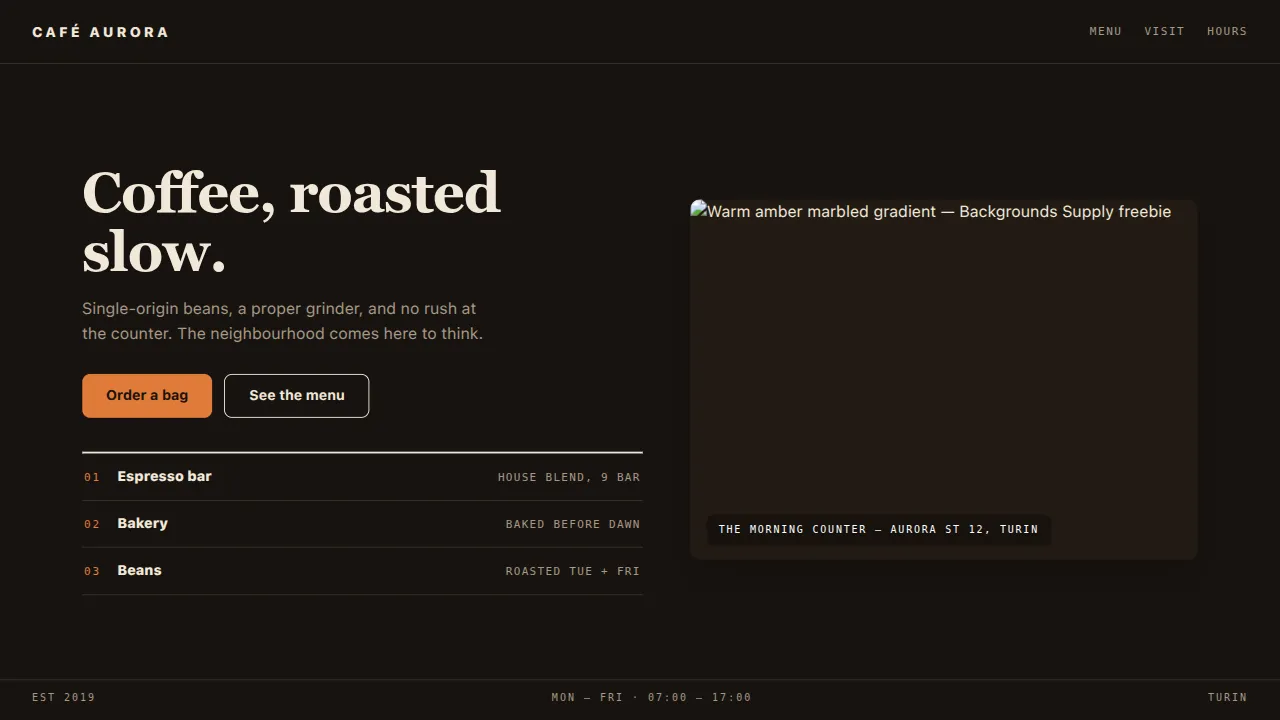
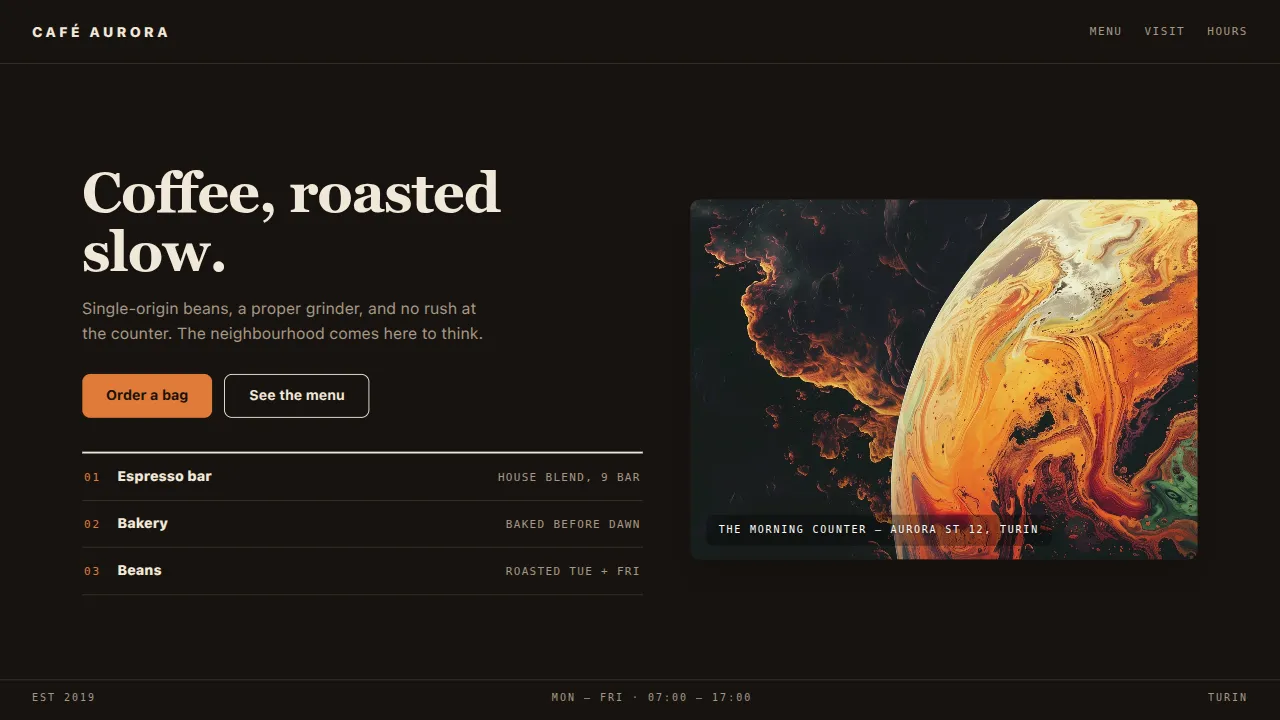
site: critique fixes — kill caps-grid tell, dominate central visual, drop duplicate index
Ran the skill's critique flow (two independent assessments + visual leg). Assessment B confirmed the broken example-asset paths (site/examples/*.html referenced ../assets -> nonexistent site/assets; all six 16:9 renders shipped with broken hero images). Fixed by moving source webps to site/examples/assets/ and re-rendering with images verified loaded. Assessment A verdict: not slop overall, but the 13-cell all-caps icon grid was the detector's own tell in the proof component. Fixes: mixed-case labels in the reference's hand-set pattern (Catch every TELL / De-slop ANY PAGE...), central landing window now spans 2 columns (550px, dominant), horizontal doctrine index strip removed (it duplicated every grid target), duplicate in-section Start now removed in favor of the reference's full-width START NOW band, showcase trimmed to 5 sites (the-landing was shown twice), partner sub rewritten to stop repeating the cine hero copy, 8-scale gaps (16px), figcaption 'Café Aurora'. Detector 0 errors/0 warnings; desktop 8.5-9/10, mobile clean, no overflow.

Changed region(s): [[0.5312, 0.275, 0.9375, 0.7944]]

diff --git a/site/src/index.html b/site/src/index.html
@@ -56,59 +56,46 @@
         <span class="sec-num">00 / THE PARTNER</span>
         <p class="p-tagline"><span class="tg-serif">A freehand design partner</span> <span class="tg-black">for agents,</span> <span class="tg-serif">by designers.</span></p>
         <h2 class="p-head">Keep the tell <span class="p-head-ser">out.</span></h2>
-        <p class="p-sub">The detector, the doctrine, the checklist — one skill. Six real sites below, built with it. No model, no API key.</p>
-        <div class="p-actions"><a class="cta" href="#install">Start now</a><a class="ghost" href="wiki.html">See the wiki</a></div>
+        <p class="p-sub">Six real sites, one skill. Every layout below is built with the doctrine it links to, and checked by the detector before it shipped.</p>
+        <div class="p-actions"><a class="ghost" href="wiki.html">See the wiki</a></div>
       </div>
       <img class="mag mag-a" src="assets/mag-editions.webp" alt="Design Skill Editions, the detector issue" width="270" height="360">
       <img class="mag mag-b" src="assets/mag-templates.webp" alt="Design Skill Editions, the checklist issue" width="270" height="360">
     </div>
-    <ol class="p-index">
-      <li><a href="detector.html"><span>01</span>Detector</a></li>
-      <li><a href="doctrine/colorize.html"><span>02</span>Color</a></li>
-      <li><a href="doctrine/typeset.html"><span>03</span>Type</a></li>
-      <li><a href="doctrine/layout.html"><span>04</span>Layout</a></li>
-      <li><a href="doctrine/animate.html"><span>05</span>Motion</a></li>
-      <li><a href="doctrine/access.html"><span>06</span>Accessibility</a></li>
-      <li><a href="checklists.html"><span>07</span>Checklists</a></li>
-    </ol>
     <div class="p-grid">
       <div class="p-row p-row1">
-        <a class="p-cell" href="doctrine/typeset.html"><svg class="ic" viewBox="0 0 24 24" fill="none" stroke="currentColor" stroke-width="2" stroke-linecap="round" stroke-linejoin="round" aria-hidden="true"><path d="M4 7V4h16v3"/><path d="M9 20h6"/><path d="M12 4v16"/></svg><span>Set the type scale</span></a>
-        <a class="p-cell" href="doctrine/colorize.html"><svg class="ic" viewBox="0 0 24 24" fill="none" stroke="currentColor" stroke-width="2" stroke-linecap="round" stroke-linejoin="round" aria-hidden="true"><path d="M12 3v3"/><path d="M12 18v3"/><path d="M3 12h3"/><path d="M18 12h3"/><path d="m5.6 5.6 2.1 2.1"/><path d="m16.3 16.3 2.1 2.1"/><path d="m18.4 5.6-2.1 2.1"/><path d="m7.7 16.3-2.1 2.1"/></svg><span>Craft the palette</span></a>
-        <a class="p-cell" href="doctrine/layout.html"><svg class="ic" viewBox="0 0 24 24" fill="none" stroke="currentColor" stroke-width="2" stroke-linecap="round" stroke-linejoin="round" aria-hidden="true"><rect x="3" y="3" width="18" height="18" rx="2"/><path d="M3 9h18"/><path d="M9 21V9"/></svg><span>Build the grid</span></a>
-        <a class="p-cell" href="doctrine/animate.html"><svg class="ic" viewBox="0 0 24 24" fill="none" stroke="currentColor" stroke-width="2" stroke-linecap="round" stroke-linejoin="round" aria-hidden="true"><path d="M3 12a9 9 0 0 1 9-9 9.75 9.75 0 0 1 6.74 2.74L21 8"/><path d="M21 3v5h-5"/><path d="M21 12a9 9 0 0 1-9 9 9.75 9.75 0 0 1-6.74-2.74L3 16"/><path d="M8 16H3v5"/></svg><span>Pick the motion</span></a>
+        <a class="p-cell" href="detector.html"><svg class="ic" viewBox="0 0 24 24" fill="none" stroke="currentColor" stroke-width="2" stroke-linecap="round" stroke-linejoin="round" aria-hidden="true"><path d="M3 7V5a2 2 0 0 1 2-2h2"/><path d="M17 3h2a2 2 0 0 1 2 2v2"/><path d="M21 17v2a2 2 0 0 1-2 2h-2"/><path d="M7 21H5a2 2 0 0 1-2-2v-2"/><line x1="7" x2="17" y1="12" y2="12"/></svg><span>Catch every <b>TELL</b></span></a>
+        <a class="p-cell" href="doctrine/deslop.html"><svg class="ic" viewBox="0 0 24 24" fill="none" stroke="currentColor" stroke-width="2" stroke-linecap="round" stroke-linejoin="round" aria-hidden="true"><path d="M12 20h9"/><path d="M16.5 3.5a2.1 2.1 0 0 1 3 3L7 19l-4 1 1-4Z"/></svg><span>De-slop <b>ANY PAGE</b></span></a>
+        <a class="p-cell" href="doctrine/colorize.html"><svg class="ic" viewBox="0 0 24 24" fill="none" stroke="currentColor" stroke-width="2" stroke-linecap="round" stroke-linejoin="round" aria-hidden="true"><path d="M12 3v3"/><path d="M12 18v3"/><path d="M3 12h3"/><path d="M18 12h3"/><path d="m5.6 5.6 2.1 2.1"/><path d="m16.3 16.3 2.1 2.1"/><path d="m18.4 5.6-2.1 2.1"/><path d="m7.7 16.3-2.1 2.1"/></svg><span>Craft the <b>PALETTE</b></span></a>
+        <a class="p-cell" href="doctrine/typeset.html"><svg class="ic" viewBox="0 0 24 24" fill="none" stroke="currentColor" stroke-width="2" stroke-linecap="round" stroke-linejoin="round" aria-hidden="true"><path d="M4 7V4h16v3"/><path d="M9 20h6"/><path d="M12 4v16"/></svg><span>Set the <b>TYPE SCALE</b></span></a>
       </div>
       <div class="p-row p-row2">
-        <a class="p-cell" href="detector.html"><svg class="ic" viewBox="0 0 24 24" fill="none" stroke="currentColor" stroke-width="2" stroke-linecap="round" stroke-linejoin="round" aria-hidden="true"><path d="M3 7V5a2 2 0 0 1 2-2h2"/><path d="M17 3h2a2 2 0 0 1 2 2v2"/><path d="M21 17v2a2 2 0 0 1-2 2h-2"/><path d="M7 21H5a2 2 0 0 1-2-2v-2"/><line x1="7" x2="17" y1="12" y2="12"/></svg><span>Detect every tell</span></a>
-        <a class="p-cell" href="doctrine/deslop.html"><svg class="ic" viewBox="0 0 24 24" fill="none" stroke="currentColor" stroke-width="2" stroke-linecap="round" stroke-linejoin="round" aria-hidden="true"><path d="M12 20h9"/><path d="M16.5 3.5a2.1 2.1 0 0 1 3 3L7 19l-4 1 1-4Z"/></svg><span>De-slop any page</span></a>
+        <a class="p-cell" href="doctrine/layout.html"><svg class="ic" viewBox="0 0 24 24" fill="none" stroke="currentColor" stroke-width="2" stroke-linecap="round" stroke-linejoin="round" aria-hidden="true"><rect x="3" y="3" width="18" height="18" rx="2"/><path d="M3 9h18"/><path d="M9 21V9"/></svg><span>Build the <b>GRID</b></span></a>
         <a class="p-central" href="wiki.html">
           <img src="assets/examples/the-landing.webp" alt="The design skill landing page, built by the skill it documents" width="400" height="225">
           <span class="p-central-cap">The landing — built by the skill · see the process <span class="go">→</span></span>
         </a>
-        <a class="p-cell" href="doctrine/access.html"><svg class="ic" viewBox="0 0 24 24" fill="none" stroke="currentColor" stroke-width="2" stroke-linecap="round" stroke-linejoin="round" aria-hidden="true"><rect x="2" y="4" width="20" height="16" rx="2"/><path d="M2 10h20"/></svg><span>Fix the accessibility</span></a>
-        <a class="p-cell" href="checklists.html"><svg class="ic" viewBox="0 0 24 24" fill="none" stroke="currentColor" stroke-width="2" stroke-linecap="round" stroke-linejoin="round" aria-hidden="true"><polyline points="9 11 12 14 22 4"/><path d="M21 12v7a2 2 0 0 1-2 2H5a2 2 0 0 1-2-2V5a2 2 0 0 1 2-2h11"/></svg><span>Ship the pre-flight</span></a>
+        <a class="p-cell" href="doctrine/animate.html"><svg class="ic" viewBox="0 0 24 24" fill="none" stroke="currentColor" stroke-width="2" stroke-linecap="round" stroke-linejoin="round" aria-hidden="true"><path d="M3 12a9 9 0 0 1 9-9 9.75 9.75 0 0 1 6.74 2.74L21 8"/><path d="M21 3v5h-5"/><path d="M21 12a9 9 0 0 1-9 9 9.75 9.75 0 0 1-6.74-2.74L3 16"/><path d="M8 16H3v5"/></svg><span>Pick the <b>MOTION</b></span></a>
       </div>
       <div class="p-row p-row3">
-        <a class="p-cell" href="detector.html"><svg class="ic" viewBox="0 0 24 24" fill="none" stroke="currentColor" stroke-width="2" stroke-linecap="round" stroke-linejoin="round" aria-hidden="true"><path d="M9 2v6"/><path d="M15 2v6"/><path d="M3 8h18"/><path d="M5 8v12a2 2 0 0 0 2 2h10a2 2 0 0 0 2-2V8"/><path d="M10 13h4"/></svg><span>Create reusable rules</span></a>
-        <a class="p-cell" href="doctrine/live.html"><svg class="ic" viewBox="0 0 24 24" fill="none" stroke="currentColor" stroke-width="2" stroke-linecap="round" stroke-linejoin="round" aria-hidden="true"><rect x="2" y="4" width="20" height="16" rx="2"/><path d="M2 10h20"/><path d="M6 14h4"/></svg><span>Iterate easily, live</span></a>
-        <a class="p-cell" href="doctrine/hero.html"><svg class="ic" viewBox="0 0 24 24" fill="none" stroke="currentColor" stroke-width="2" stroke-linecap="round" stroke-linejoin="round" aria-hidden="true"><path d="M12 20h9"/><path d="M16.5 3.5a2.1 2.1 0 0 1 3 3L7 19l-4 1 1-4Z"/></svg><span>Design from a clean brief</span></a>
-        <a class="p-cell" href="doctrine/dashboards.html"><svg class="ic" viewBox="0 0 24 24" fill="none" stroke="currentColor" stroke-width="2" stroke-linecap="round" stroke-linejoin="round" aria-hidden="true"><path d="M3 3v18h18"/><path d="M7 15v3"/><path d="M12 10v8"/><path d="M17 6v12"/></svg><span>Build the dashboard</span></a>
-        <a class="p-cell p-cta" href="#install"><span>Start now</span><span class="go">→</span></a>
+        <a class="p-cell" href="doctrine/access.html"><svg class="ic" viewBox="0 0 24 24" fill="none" stroke="currentColor" stroke-width="2" stroke-linecap="round" stroke-linejoin="round" aria-hidden="true"><rect x="2" y="4" width="20" height="16" rx="2"/><path d="M2 10h20"/></svg><span>Fix the <b>ACCESSIBILITY</b></span></a>
+        <a class="p-cell" href="checklists.html"><svg class="ic" viewBox="0 0 24 24" fill="none" stroke="currentColor" stroke-width="2" stroke-linecap="round" stroke-linejoin="round" aria-hidden="true"><polyline points="9 11 12 14 22 4"/><path d="M21 12v7a2 2 0 0 1-2 2H5a2 2 0 0 1-2-2V5a2 2 0 0 1 2-2h11"/></svg><span>Ship the <b>PRE-FLIGHT</b></span></a>
+        <a class="p-cell" href="doctrine/live.html"><svg class="ic" viewBox="0 0 24 24" fill="none" stroke="currentColor" stroke-width="2" stroke-linecap="round" stroke-linejoin="round" aria-hidden="true"><rect x="2" y="4" width="20" height="16" rx="2"/><path d="M2 10h20"/><path d="M6 14h4"/></svg><span>Iterate <b>EASILY, LIVE</b></span></a>
+        <a class="p-cell" href="doctrine/hero.html"><svg class="ic" viewBox="0 0 24 24" fill="none" stroke="currentColor" stroke-width="2" stroke-linecap="round" stroke-linejoin="round" aria-hidden="true"><path d="M12 20h9"/><path d="M16.5 3.5a2.1 2.1 0 0 1 3 3L7 19l-4 1 1-4Z"/></svg><span>Design from a <b>CLEAN BRIEF</b></span></a>
       </div>
     </div>
+    <a class="p-band" href="#install">
+      <span class="p-band-t">Start now</span>
+      <span class="p-band-s">Install in 30 seconds · pi, opencode, claude-code, codex, cursor, gemini-cli · no model, no API key <span class="go">→</span></span>
+    </a>
     <div class="p-show">
-      <div class="box-head"><span>Made with the skill</span><span>Six sites · 16:9</span></div>
+      <div class="box-head"><span>Made with the skill</span><span>Five sites · 16:9</span></div>
       <div class="p-show-grid">
-        <figure><img src="assets/examples/cafe-aurora.webp" alt="Cafe Aurora, a cafe landing page built with the design skill" width="400" height="225"><figcaption><small>Cafe Aurora</small>Cafe landing</figcaption></figure>
+        <figure><img src="assets/examples/cafe-aurora.webp" alt="Cafe Aurora, a cafe landing page built with the design skill" width="400" height="225"><figcaption><small>Café Aurora</small>Cafe landing</figcaption></figure>
         <figure><img src="assets/examples/studio-noma.webp" alt="Studio Noma, a portfolio page built with the design skill" width="400" height="225"><figcaption><small>Studio Noma</small>Portfolio</figcaption></figure>
         <figure><img src="assets/examples/pulse.webp" alt="Pulse, an analytics dashboard built with the design skill" width="400" height="225"><figcaption><small>Pulse</small>Dashboard</figcaption></figure>
         <figure><img src="assets/examples/field-notes.webp" alt="Field Notes, an editorial page built with the design skill" width="400" height="225"><figcaption><small>Field Notes</small>Editorial</figcaption></figure>
         <figure><img src="assets/examples/atlas.webp" alt="Atlas, a travel agency page built with the design skill" width="400" height="225"><figcaption><small>Atlas</small>Travel</figcaption></figure>
-        <a class="show-wide" href="wiki.html">
-          <img src="assets/examples/the-landing.webp" alt="The design skill landing page, built by the skill it documents" width="88" height="50">
-          <b>This page</b>
-          <span>Built by the skill it documents · the system design lives in site/examples/ <span class="go">→</span></span>
-        </a>
       </div>
     </div>
   </div>

diff --git a/site/src/site.css b/site/src/site.css
@@ -439,65 +439,61 @@ html.js .uc-card{transition:opacity .35s ease-out,transform .35s cubic-bezier(.2
 
 /* ---------- partner hook section (Keep Control lane) ---------- */
 .partner-sec{padding:112px 0 96px;border-bottom:1px solid var(--line)}
-.p-top{display:flex;align-items:flex-end;justify-content:space-between;gap:40px;margin-bottom:56px}
+.p-top{display:flex;align-items:flex-end;justify-content:space-between;gap:40px;margin-bottom:64px}
 .p-title{flex:1;text-align:center;order:0}
 .p-tagline{font-size:clamp(16px,1.6vw,21px);margin-top:20px}
 .p-tagline .tg-serif{font-family:"EB Garamond",Georgia,serif;color:var(--ink2);letter-spacing:.01em}
 .p-tagline .tg-black{font-family:var(--display);font-weight:900}
 .p-head{font-family:var(--display);font-weight:900;font-size:clamp(38px,5.4vw,74px);line-height:1.02;letter-spacing:-.02em;margin-top:10px}
 .p-head .p-head-ser{font-family:"EB Garamond",Georgia,serif;font-weight:400;color:var(--ink2);letter-spacing:-.01em}
-.p-sub{max-width:52ch;margin:18px auto 24px;color:var(--ink2);font-size:16px}
-.p-actions{display:flex;gap:16px;justify-content:center;align-items:center;flex-wrap:wrap}
+.p-sub{max-width:52ch;margin:18px auto 0;color:var(--ink2);font-size:16px}
+.p-actions{margin-top:24px}
 .mag{width:clamp(150px,16vw,262px);aspect-ratio:3/4;object-fit:cover;border-radius:4px;box-shadow:0 20px 44px rgba(20,18,15,.16);display:block}
 .mag-a{transform:rotate(-3deg);order:-1}
 .mag-b{transform:rotate(2.5deg);order:1}
-.p-index{list-style:none;display:flex;border-top:1px solid var(--line);border-bottom:1px solid var(--line);margin-bottom:56px}
-.p-index li{flex:1;border-right:1px solid var(--line)}
-.p-index li:last-child{border-right:0}
-.p-index a{display:flex;align-items:baseline;justify-content:center;gap:8px;padding:14px 6px;text-decoration:none;color:var(--ink);font:600 13px var(--body);white-space:nowrap}
-.p-index a span{font:11px var(--mono);color:var(--lime-deep);letter-spacing:.1em}
-.p-index a:hover{color:var(--lime-deep)}
-.p-grid{display:flex;flex-direction:column;gap:14px;margin-bottom:64px}
-.p-row{display:grid;gap:14px}
+.p-grid{display:flex;flex-direction:column;gap:16px;margin-bottom:24px}
+.p-row{display:grid;gap:16px}
 .p-row1{grid-template-columns:repeat(4,1fr)}
-.p-row2{grid-template-columns:repeat(5,1fr)}
-.p-row3{grid-template-columns:repeat(5,1fr)}
-.p-cell{display:flex;align-items:center;gap:12px;border-top:2px solid var(--ink);padding:16px 4px 4px;text-decoration:none;color:var(--ink)}
+.p-row2{grid-template-columns:repeat(4,1fr)}
+.p-row3{grid-template-columns:repeat(4,1fr)}
+.p-cell{display:flex;align-items:center;gap:14px;border-top:2px solid var(--ink);padding:18px 4px 6px;text-decoration:none;color:var(--ink)}
 .p-cell:hover{color:var(--lime-deep)}
-.p-cell:hover .ic{stroke:var(--lime-deep)}
-.p-cell .ic{width:20px;height:20px;color:var(--lime-deep);flex:none}
-.p-cell span{font:11px var(--mono);letter-spacing:.13em;text-transform:uppercase}
-.p-cell .go{color:var(--lime-deep)}
-.p-cta{align-items:center;justify-content:center;border:1px solid var(--ink);border-radius:8px;background:var(--lime);color:var(--ink);padding:14px 10px;display:flex;gap:8px}
-.p-cta:hover{background:#a4db26;color:var(--ink)}
-.p-cta span{font:700 13px var(--body);letter-spacing:.06em}
-.p-cta .go{font:14px var(--mono);color:var(--ink)}
-.p-central{position:relative;border-radius:10px;overflow:hidden;background:var(--ink);display:flex;flex-direction:column;justify-content:flex-end;text-decoration:none;box-shadow:0 16px 36px rgba(20,18,15,.16)}
+.p-cell .ic{width:22px;height:22px;color:var(--lime-deep);flex:none;margin-top:2px}
+.p-cell span{font:600 14px/1.35 var(--body);letter-spacing:.01em}
+.p-cell b{font-weight:800}
+.p-cell:hover b{color:var(--lime-deep)}
+.p-central{position:relative;border-radius:10px;overflow:hidden;background:var(--ink);display:flex;flex-direction:column;justify-content:flex-end;text-decoration:none;box-shadow:0 16px 36px rgba(20,18,15,.16);grid-column:span 2}
 .p-central img{width:100%;height:auto;aspect-ratio:16/9;object-fit:cover;display:block}
-.p-central-cap{font:10px var(--mono);letter-spacing:.16em;text-transform:uppercase;color:#d8e2cf;padding:12px 14px;background:var(--ink)}
+.p-central-cap{font:10px var(--mono);letter-spacing:.16em;text-transform:uppercase;color:#d8e2cf;padding:12px 16px;background:var(--ink)}
 .p-central .go{color:var(--lime-deep)}
+.p-band{display:flex;align-items:center;justify-content:space-between;gap:24px;background:var(--lime);border-radius:10px;padding:22px 28px;text-decoration:none;color:var(--ink);margin-bottom:64px}
+.p-band:hover{background:#a4db26}
+.p-band-t{font:900 clamp(20px,2.2vw,28px)/1 var(--display);letter-spacing:.02em;text-transform:uppercase;white-space:nowrap}
+.p-band-s{font:13px var(--mono);letter-spacing:.06em;color:var(--ink)}
+.p-band .go{font:15px var(--mono)}
 .p-show{background:var(--white);border:1px solid var(--line);border-radius:10px;padding:24px}
-.box-head{display:flex;justify-content:space-between;gap:16px;font:11px var(--mono);letter-spacing:.18em;color:var(--ink2);text-transform:uppercase;margin-bottom:18px}
+.box-head{display:flex;justify-content:space-between;gap:16px;font:11px var(--mono);letter-spacing:.18em;color:var(--ink2);text-transform:uppercase;margin-bottom:16px}
 .p-show-grid{display:grid;grid-template-columns:repeat(5,minmax(0,1fr));gap:16px}
 .p-show-grid figure{margin:0}
 .p-show-grid img{width:100%;aspect-ratio:16/9;object-fit:cover;border-radius:6px;display:block}
 .p-show-grid figcaption{font:11px var(--mono);letter-spacing:.1em;color:var(--ink2);text-transform:uppercase;margin-top:10px;line-height:1.5}
 .p-show-grid figcaption small{display:block;color:var(--ink);font:600 13px var(--body);letter-spacing:0;text-transform:none}
-.show-wide{grid-column:1/-1;display:flex;align-items:center;gap:18px;border:1px solid var(--line);border-radius:8px;padding:12px 16px;text-decoration:none;color:var(--ink);margin-top:16px}
-.show-wide:hover{border-color:var(--ink)}
-.show-wide img{width:112px;aspect-ratio:16/9;object-fit:cover;border-radius:4px;flex:none}
-.show-wide b{font:900 14px var(--display);letter-spacing:.06em;text-transform:uppercase;white-space:nowrap}
-.show-wide span{font:12px var(--mono);color:var(--ink2);letter-spacing:.04em;margin-left:auto;text-align:right}
-.show-wide .go{color:var(--lime-deep)}
 @media (max-width:960px){
   .p-top{flex-direction:column;align-items:center;gap:36px}
   .p-title{order:-1}
   .mag{width:170px}
-  .p-row2,.p-row3{grid-template-columns:repeat(3,1fr)}
+  .p-row1,.p-row3{grid-template-columns:repeat(2,1fr)}
+  .p-row2{grid-template-columns:repeat(4,1fr)}
   .p-row2 .p-central{grid-column:1/-1;order:-1}
-  .p-index{flex-wrap:wrap}
-  .p-index li{flex:1 1 25%;border-bottom:1px solid var(--line)}
+  .p-band{flex-direction:column;align-items:flex-start;gap:12px}
 }
+@media (max-width:640px){
+  .p-row1,.p-row2,.p-row3{grid-template-columns:repeat(2,1fr)}
+  .p-row2 .p-central{grid-column:1/-1}
+  .p-show-grid{grid-template-columns:repeat(2,minmax(0,1fr))}
+  .p-band-s{line-height:1.5}
+}
+
 @media (max-width:640px){
   .p-row1,.p-row2,.p-row3{grid-template-columns:repeat(2,1fr)}
   .p-row2 .p-central{grid-column:1/-1}

diff --git a/site/examples/the-landing.html b/site/examples/the-landing.html
@@ -35,7 +35,7 @@
       </div>
     </div>
     <div class="panel">
-      <img src="../assets/examples-src/the-landing.webp" alt="Viridian botanical field in soft pink and green — Backgrounds Supply freebie">
+      <img src="assets/the-landing.webp" alt="Viridian botanical field in soft pink and green — Backgrounds Supply freebie">
       <div class="bar"><i></i><i></i><i></i></div>
       <div class="run"><b>$</b> design detect ./landing.html --json<br>{ "summary": { "error": 0, "warning": 0, "advisory": 78 },<br>  "verdict": "ship it" }</div>
     </div>

diff --git a/site/examples/pulse.html b/site/examples/pulse.html
@@ -42,7 +42,7 @@
   <aside>
     <div class="logo">PULSE<i>.</i></div>
     <nav><a class="on">Overview</a><a>Campaigns</a><a>Audiences</a><a>Reports</a><a>Settings</a></nav>
-    <div class="mini"><img src="../assets/examples-src/pulse.webp" alt="Dark slate 3D valley — Backgrounds Supply freebie"></div>
+    <div class="mini"><img src="assets/pulse.webp" alt="Dark slate 3D valley — Backgrounds Supply freebie"></div>
   </aside>
   <div class="main">
     <div class="top">

diff --git a/site/examples/field-notes.html b/site/examples/field-notes.html
@@ -39,7 +39,7 @@
     </div>
     <div>
       <div class="plate">
-        <img src="../assets/examples-src/field-notes.webp" alt="Periwinkle fabric folds in soft light — Backgrounds Supply freebie">
+        <img src="assets/field-notes.webp" alt="Periwinkle fabric folds in soft light — Backgrounds Supply freebie">
         <div class="cap">Fig. 01 — Street corner, 6 a.m.</div>
       </div>
       <div class="cols sub-cols">

diff --git a/site/examples/studio-noma.html b/site/examples/studio-noma.html
@@ -33,7 +33,7 @@
       </div>
     </div>
     <div class="plate">
-      <img src="../assets/examples-src/studio-noma.webp" alt="Dithered halftone portrait print — Backgrounds Supply freebie">
+      <img src="assets/studio-noma.webp" alt="Dithered halftone portrait print — Backgrounds Supply freebie">
       <div class="cap">Field journal — Noma print, 2025</div>
     </div>
   </main>

diff --git a/site/examples/cafe-aurora.html b/site/examples/cafe-aurora.html
@@ -33,7 +33,7 @@
       </div>
     </div>
     <div class="frame">
-      <img src="../assets/examples-src/cafe-aurora.webp" alt="Warm amber marbled gradient — Backgrounds Supply freebie">
+      <img src="assets/cafe-aurora.webp" alt="Warm amber marbled gradient — Backgrounds Supply freebie">
       <div class="cap">The morning counter — Aurora St 12, Turin</div>
     </div>
   </main>

diff --git a/site/examples/atlas.html b/site/examples/atlas.html
@@ -35,7 +35,7 @@
       </div>
     </div>
     <div class="frame">
-      <img src="../assets/examples-src/atlas.webp" alt="Golden canyon walls in light beams — Backgrounds Supply freebie">
+      <img src="assets/atlas.webp" alt="Golden canyon walls in light beams — Backgrounds Supply freebie">
       <div class="cap">Perplex canyon — route 03, golden hour</div>
     </div>
   </main>

diff --git a/site/examples/plan.md b/site/examples/plan.md
@@ -40,7 +40,7 @@ for the signed fetch itself):
    the HttpOnly session cookie (unreadable via `document.cookie`).
 2. `curl -b "<cookie>" -L "https://app.backgrounds.supply/api/download/<id>"`
    → original PNG (≈10 MB, QHD 2912×1632).
-3. `ffmpeg -i in.png -vf scale=1920:-1 -q:v 80 out.webp` → `site/src/assets/examples-src/`.
+3. `ffmpeg -i in.png -vf scale=1920:-1 -q:v 80 out.webp` → `site/examples/assets/` (source webps).
 
 License: freebies are free for personal projects; commercial use requires the paid
 library. This landing is the skill's own site — attribution added to NOTICE.
